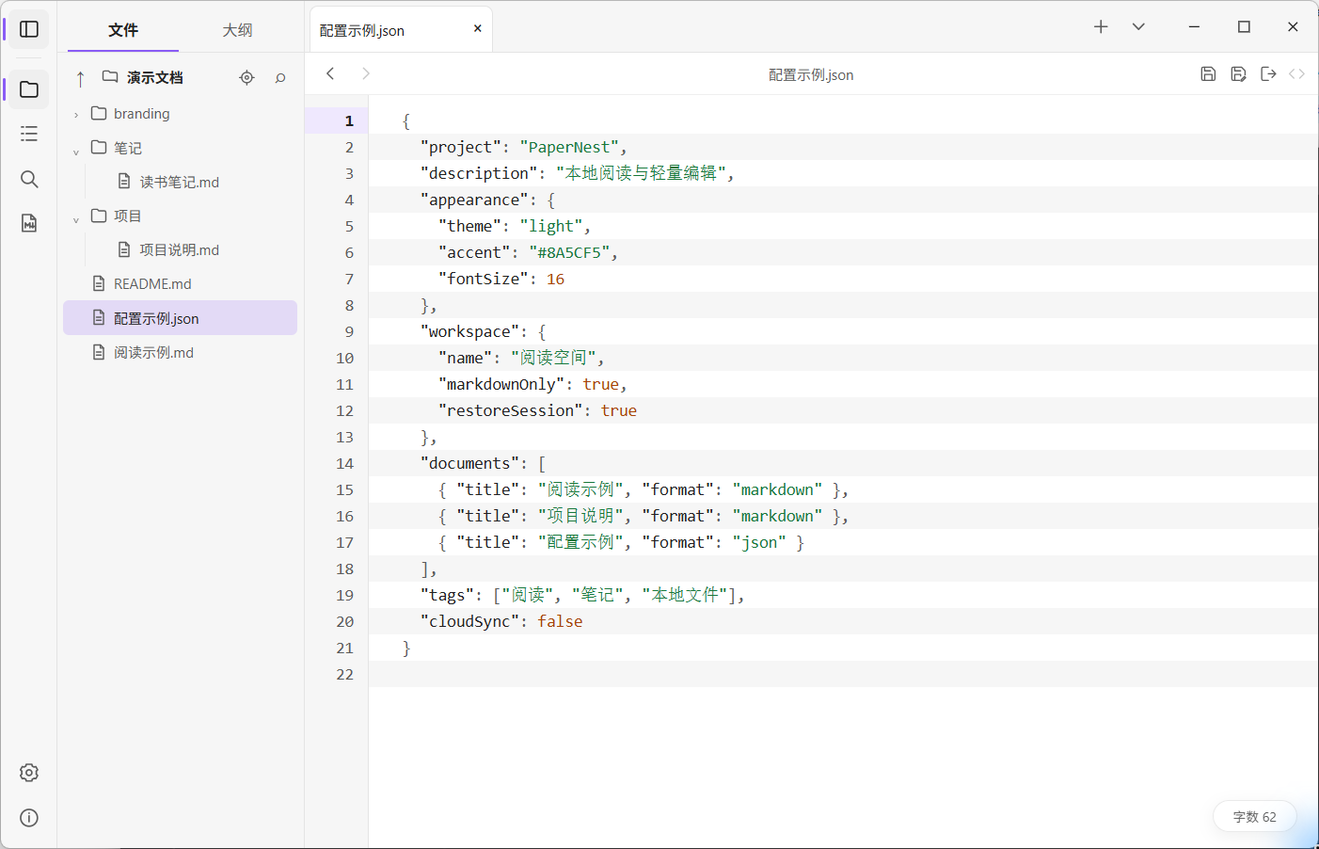
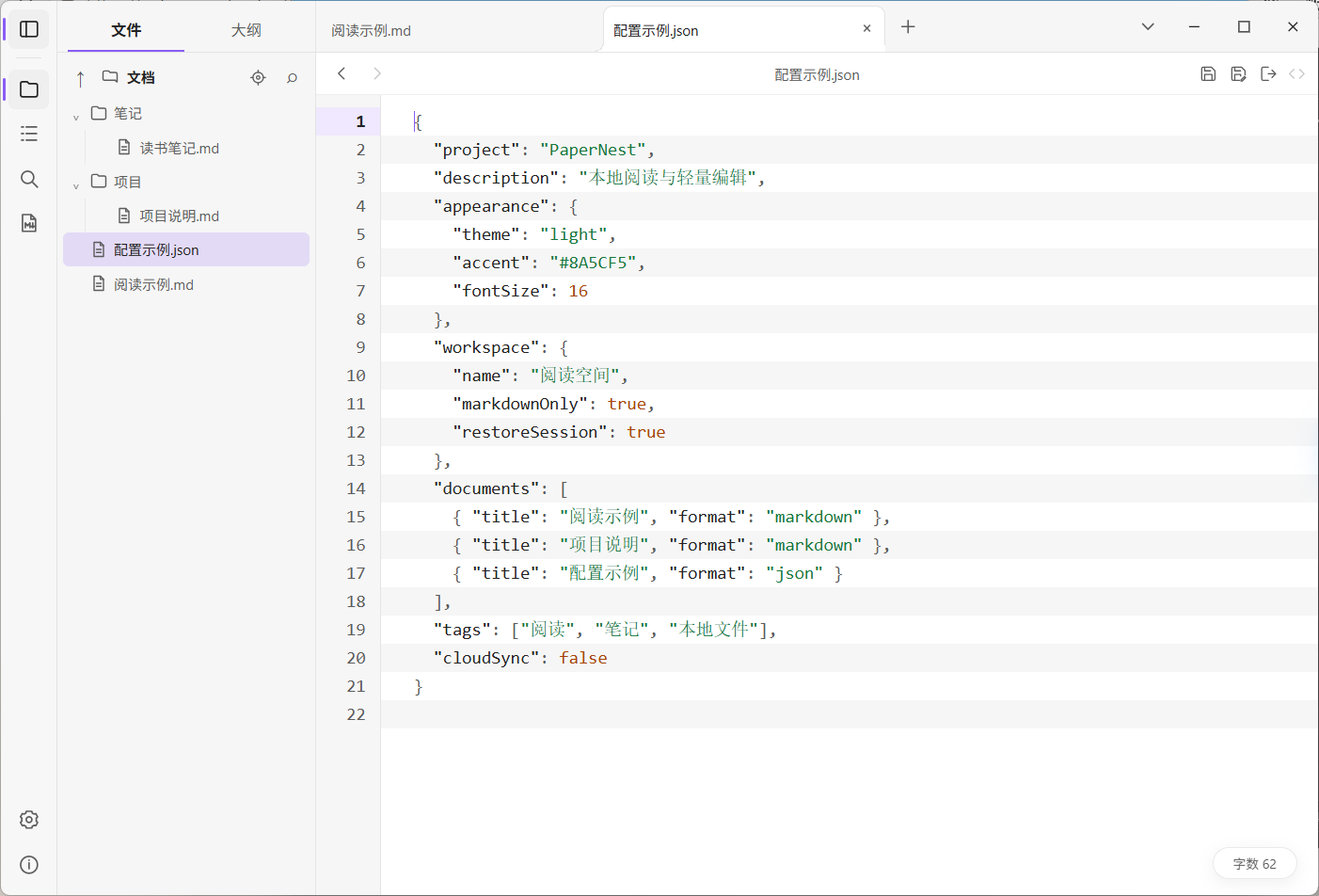
Refresh README copy and v0.2.5 screenshots
Rewrite both READMEs around the released v0.2.5 behaviour: platform
download table, updater signature scope, Windows portable settings and
data locations, and session restore wording. Move release-candidate
detail to the development records instead of the user-facing sections.

Recapture six screenshots from the shipped v0.2.5 portable EXE
(3e9fabdd5a267bdafa31ca7398679fba233e48f4264f2f50f57da868688cc286) at
1402x952 and replace the v0.1.5 set. The tab menu shot replaces the
collapsible-section shot, which no longer exists.

Sync the project site with the same three-platform story in the hero,
gallery, and download sections.

diff --git a/docs/index.html b/docs/index.html
@@ -32,14 +32,14 @@
 <main id="main">
   <section class="hero" id="top">
     <div class="container hero-inner">
-      <p class="eyebrow">开源 · 本地优先 · Windows x64</p>
+      <p class="eyebrow">开源 · 本地优先 · 桌面三平台</p>
       <h1>打开文件，<br class="br-sm">就能开始读写。</h1>
       <p class="lead">纸间是一个面向本地文件的轻量桌面应用。Markdown 以所见即所得方式呈现，代码、配置、日志与图片也能直接查看。不需要导入，不需要账号，文件始终留在你的磁盘上。</p>
       <div class="actions">
-        <a class="btn btn-primary" href="https://github.com/baihejiangnan/PaperNest/releases/latest" rel="noopener noreferrer">下载 Windows 版</a>
+        <a class="btn btn-primary" href="https://github.com/baihejiangnan/PaperNest/releases/latest" rel="noopener noreferrer">下载 Windows / Linux 版</a>
         <a class="btn btn-ghost" href="https://github.com/baihejiangnan/PaperNest" rel="noopener noreferrer">查看源码</a>
       </div>
-      <p class="fine">便携 EXE 或 MSI 安装包 · 需要 WebView2 Runtime · MIT 许可</p>
+      <p class="fine">Windows 便携 EXE 或 MSI · Linux AppImage / deb / rpm · macOS 测试版 · MIT 许可</p>
     </div>
 
     <div class="container">
@@ -47,9 +47,9 @@
         <div class="shot-frame">
           <picture id="view-render">
             <source media="(prefers-color-scheme: dark)" srcset="assets/screenshots/main-dark.png">
-            <img src="assets/screenshots/main-light.png" width="1402" height="902" decoding="async" fetchpriority="high" alt="纸间 PaperNest 主界面：左侧是文件树，右侧是渲染后的 Markdown 文档，包含任务列表、表格、代码块和公式">
+            <img src="assets/screenshots/main-light.png" width="1402" height="952" decoding="async" fetchpriority="high" alt="纸间 PaperNest 主界面：左侧是文件树，右侧是渲染后的 Markdown 文档，包含任务列表、表格、代码块和公式">
           </picture>
-          <img id="view-source" src="assets/screenshots/markdown-source.png" width="1402" height="902" decoding="async" alt="纸间 PaperNest 的 Markdown 源码视图：带行号和语法高亮的原始文本" hidden>
+          <img id="view-source" src="assets/screenshots/markdown-source.png" width="1402" height="952" decoding="async" alt="纸间 PaperNest 的 Markdown 源码视图：带行号和语法高亮的原始文本" hidden>
         </div>
         <div class="view-toggle" role="group" aria-label="切换截图视图" hidden>
           <button type="button" data-view="render" aria-pressed="true">渲染</button>
@@ -96,19 +96,19 @@
   <section class="section section-alt" id="gallery">
     <div class="container">
       <h2>界面一览</h2>
-      <p class="section-lead">以下均为实际运行截图。点击图片可查看原始尺寸。</p>
+      <p class="section-lead">以下均为 v0.2.5 的 Windows 实际运行截图。点击图片可查看原始尺寸。</p>
       <div class="gallery">
         <figure>
-          <a href="assets/screenshots/code-json.png"><img src="assets/screenshots/code-json.png" width="1402" height="902" loading="lazy" decoding="async" alt="纸间在 Code 模式中打开 JSON 配置文件，显示行号与语法高亮"></a>
+          <a href="assets/screenshots/code-json.png"><img src="assets/screenshots/code-json.png" width="1402" height="952" loading="lazy" decoding="async" alt="纸间在 Code 模式中打开 JSON 配置文件，显示行号与语法高亮"></a>
           <figcaption>Code 模式：JSON 配置直接打开，带行号与语法高亮。</figcaption>
         </figure>
         <figure>
-          <a href="assets/screenshots/settings-editor.png"><img src="assets/screenshots/settings-editor.png" width="1402" height="902" loading="lazy" decoding="async" alt="纸间设置面板的编辑器分类，可调整阅读字体与字号"></a>
+          <a href="assets/screenshots/settings-editor.png"><img src="assets/screenshots/settings-editor.png" width="1402" height="952" loading="lazy" decoding="async" alt="纸间设置面板的编辑器分类，可调整阅读字体与字号"></a>
           <figcaption>设置：按分类调整字体、字号与编辑习惯，支持搜索。</figcaption>
         </figure>
         <figure>
-          <a href="assets/screenshots/readme-details.png"><img src="assets/screenshots/readme-details.png" width="1402" height="902" loading="lazy" decoding="async" alt="纸间打开项目 README，展开其中的文件树折叠区块，其余区块保持收起"></a>
-          <figcaption>折叠区块：支持 GitHub 风格的 &lt;details&gt;，可展开与收起。</figcaption>
+          <a href="assets/screenshots/tabs-menu.png"><img src="assets/screenshots/tabs-menu.png" width="1402" height="952" loading="lazy" decoding="async" alt="纸间标签页右键菜单，可关闭其他标签页、锁定或移动至新窗口"></a>
+          <figcaption>标签页菜单：批量关闭、锁定，或移动至独立窗口。</figcaption>
         </figure>
       </div>
     </div>
@@ -163,20 +163,25 @@
   <section class="section" id="download">
     <div class="container">
       <h2>下载</h2>
-      <p class="section-lead">当前正式发行 Windows x64 版本。两种包功能相同，按使用方式选择。</p>
-      <div class="grid grid-2">
+      <p class="section-lead">当前正式版为 v0.2.5。Windows 与 Linux 包在正式版 Releases，macOS 单独提供未公证测试版。</p>
+      <div class="grid">
         <a class="dl" href="https://github.com/baihejiangnan/PaperNest/releases/latest" rel="noopener noreferrer">
-          <span class="dl-kind">便携版 · EXE</span>
-          <span class="dl-desc">无需安装，解压即用，适合放在 U 盘或随项目携带。</span>
+          <span class="dl-kind">Windows x64</span>
+          <span class="dl-desc">便携 EXE 直接运行，或安装 MSI 以配置文件关联；支持应用内检查、下载和安装更新。</span>
           <span class="dl-go">前往 Releases →</span>
         </a>
         <a class="dl" href="https://github.com/baihejiangnan/PaperNest/releases/latest" rel="noopener noreferrer">
-          <span class="dl-kind">安装版 · MSI</span>
-          <span class="dl-desc">安装到系统，支持文件关联与右键“新建 MD 文件”。</span>
+          <span class="dl-kind">Linux x86_64</span>
+          <span class="dl-desc">AppImage、deb 或 rpm，按发行版选择；原生构建、测试与窗口启动检查通过。</span>
           <span class="dl-go">前往 Releases →</span>
+        </a>
+        <a class="dl" href="https://github.com/baihejiangnan/PaperNest/releases/tag/macos-v0.2.5-preview.1" rel="noopener noreferrer">
+          <span class="dl-kind">macOS Universal</span>
+          <span class="dl-desc">Intel 与 Apple Silicon 共用同一 DMG；临时签名，未经 Apple 公证的测试版。</span>
+          <span class="dl-go">查看测试版 →</span>
         </a>
       </div>
-      <p class="fine">运行需要 WebView2 Runtime（Windows 10/11 通常已内置）。Linux x86_64 的 AppImage、deb、rpm 也已在 Releases 提供，macOS Universal <a href="https://github.com/baihejiangnan/PaperNest/releases/tag/macos-v0.2.5-preview.1" rel="noopener noreferrer">未公证测试版</a>已提供，实机完整验收仍待进行。也可以按 README 从源码构建。</p>
+      <p class="fine">Windows 需要 WebView2 Runtime；Windows 包附带应用更新签名，各平台均提供 SHA-256 清单。Linux 与 macOS 暂不支持应用内自动安装更新，完整实机验收仍待进行。也可以按 README 从源码构建。</p>
     </div>
   </section>
 </main>

diff --git a/README.md b/README.md
@@ -11,13 +11,13 @@
 [![许可证](https://img.shields.io/badge/license-MIT-8a5cf5)](LICENSE.md)
 [![平台](https://img.shields.io/badge/platform-Windows%20x64%20%7C%20Linux%20x64-555)](https://github.com/baihejiangnan/PaperNest/releases/latest)
 
-[下载](https://github.com/baihejiangnan/PaperNest/releases/latest) · [项目介绍页](https://baihejiangnan.github.io/PaperNest/) · [English](README.en.md)
+[Windows / Linux 下载](https://github.com/baihejiangnan/PaperNest/releases/latest) · [macOS 测试版](https://github.com/baihejiangnan/PaperNest/releases/tag/macos-v0.2.5-preview.1) · [项目介绍页](https://baihejiangnan.github.io/PaperNest/) · [English](README.en.md)
 
 </div>
 
 ![纸间 PaperNest 浅色主界面：展开的文件树与包含任务列表、表格、代码和公式的 Markdown 文档](docs/assets/screenshots/main-light.png)
 
-*Windows 桌面实际运行界面，使用专门准备的演示文档。*
+*PaperNest v0.2.5 的 Windows 实际运行截图，使用演示文档；下方可查看深色主题、源码、JSON、设置和标签页菜单。*
 
 ---
 
@@ -46,7 +46,7 @@
 
 ## 界面预览
 
-浅色主界面见上图。以下截图展示同一份文档的不同视图，以及配置文件、设置和折叠区块。
+浅色主界面见上图。以下截图均来自 v0.2.5，使用同一组演示文件。
 
 <details>
 <summary><b>查看更多界面截图</b></summary>
@@ -75,33 +75,30 @@ JSON 配置文件直接进入 Code 模式，无须转换为 Markdown。
 
 ![PaperNest 设置面板的编辑器分类](docs/assets/screenshots/settings-editor.png)
 
-### README 折叠区块
+### 标签页菜单
 
-用 PaperNest 打开项目 README，展开“文件树”说明，其余区块保持收起。
+右键标签页可批量关闭、锁定，或移动至独立窗口。锁定可防止文件树预览替换该标签。
 
-![PaperNest 打开 README 并展开文件树折叠区块](docs/assets/screenshots/readme-details.png)
+![PaperNest 标签页菜单：关闭、锁定和移动至新窗口](docs/assets/screenshots/tabs-menu.png)
 
 </details>
 
 ## 下载与安装
 
-当前正式发行 **Windows x64 与 Linux x86_64** 版本，在 [Releases](https://github.com/baihejiangnan/PaperNest/releases/latest) 下载：
+当前正式版为 **v0.2.5**。Windows 与 Linux 包在[正式版 Releases](https://github.com/baihejiangnan/PaperNest/releases/latest)，macOS 单独提供[未公证测试版](https://github.com/baihejiangnan/PaperNest/releases/tag/macos-v0.2.5-preview.1)。
 
-| 包类型 | 文件 | 适合 |
+| 平台 | 下载包 | 选择方式 |
 | --- | --- | --- |
-| 便携版 | `PaperNest-X.Y.Z.exe` | 免安装，放在任意目录或 U 盘中使用；数据可保存在程序旁的 `data/` 目录。 |
-| 安装版 | `PaperNest_X.Y.Z_x64.msi` | 安装到系统，配合文件关联和右键“新建 MD 文件”使用。 |
-| Linux AppImage | `PaperNest-X.Y.Z-linux-x86_64.AppImage` | Linux x86_64 可执行应用包。 |
-| Linux deb / rpm | `PaperNest-X.Y.Z-linux-x86_64.deb` / `.rpm` | 使用对应的软件包管理器安装；兼容性范围见发行说明。 |
+| Windows x64 | [便携 EXE](https://github.com/baihejiangnan/PaperNest/releases/download/v0.2.5/PaperNest-0.2.5.exe) / [安装 MSI](https://github.com/baihejiangnan/PaperNest/releases/download/v0.2.5/PaperNest_0.2.5_x64.msi) | EXE 直接运行；MSI 适合安装到系统并配置文件关联。 |
+| Linux x86_64 | [AppImage](https://github.com/baihejiangnan/PaperNest/releases/download/v0.2.5/PaperNest-0.2.5-linux-x86_64.AppImage) / [deb](https://github.com/baihejiangnan/PaperNest/releases/download/v0.2.5/PaperNest-0.2.5-linux-x86_64.deb) / [rpm](https://github.com/baihejiangnan/PaperNest/releases/download/v0.2.5/PaperNest-0.2.5-linux-x86_64.rpm) | 按发行版选择应用包或软件包；兼容性说明见 Release。 |
+| macOS Intel / Apple Silicon | [Universal DMG 测试版](https://github.com/baihejiangnan/PaperNest/releases/tag/macos-v0.2.5-preview.1) | 同一包包含双架构；使用临时签名，**未经过 Apple 公证**。 |
 
-- Windows 运行需要 **WebView2 Runtime**（Windows 10/11 通常已内置）。
-- 每个发行版附带 `.sig` 更新签名和 `SHA256SUMS.txt`，可用来核对文件。当前没有 Windows Authenticode 证书签名，首次运行时系统可能提示来源未知。
-- 自动检查更新默认关闭，可在设置中开启；只获取本项目发布并经签名验证的版本，下载和安装前仍需确认。
-- 检查更新直接读取 Release 的公开元数据，无需 GitHub 登录或 Token；连接失败时会显示具体错误，可再次检查。
-- 应用内更新会先保存阅读会话，安装完成后自动启动并恢复文件、当前标签与阅读位置；便携版在旧进程退出后打开新 EXE。更新重启也会恢复会话，不受日常“恢复上次会话”开关影响。安装取消或失败时尝试返回原程序。此修复自 v0.2.2 起发布。
-- Linux 首发包通过 Ubuntu 22.04 原生构建、54 项 Rust 测试和桌面窗口启动检查；实体桌面安装与完整功能验收仍待进行。Linux 暂不支持应用内自动安装更新。macOS Universal [未公证测试版](https://github.com/baihejiangnan/PaperNest/releases/tag/macos-v0.2.5-preview.1) 已提供，实机完整验收待进行。
+- Windows 需要 **WebView2 Runtime**。当前没有 Windows Authenticode 证书签名，首次运行时系统可能提示来源未知。
+- 各平台均附带 SHA-256 清单；Windows EXE 与 MSI 另有应用更新签名。更新签名与系统认可的发布者证书是不同的验证方式。
+- Windows 可在“设置 → 更新”检查、下载和安装更新，无需 GitHub 登录或 Token。自动检查默认关闭，下载和安装均需确认；安装前保存阅读会话，更新后恢复。
+- Linux 与 macOS 暂不支持应用内自动安装更新，请从 Releases 手动下载。两者已通过原生构建与测试，Linux 另通过窗口启动检查，macOS 另核验了最终 DMG 的双架构和签名完整性；完整实机功能验收仍待完成。详细范围见[开发记录](docs/development.md)及 [TODO](TODO.md)。
 
-> 本项目基于 [MDmeow](https://github.com/zakee039/MDmeow) 持续开发；原项目的安装包不包含这里的新增功能。
+> PaperNest 基于 [MDmeow](https://github.com/zakee039/MDmeow) 持续开发；请下载本仓库的发行包以使用这里的功能。
 
 ## 快速上手
 
@@ -125,11 +122,11 @@ JSON 配置文件直接进入 Code 模式，无须转换为 Markdown。
 <details>
 <summary><b>标签页与窗口</b></summary>
 
-- 标题栏加号打开新标签页，可从空白页创建或打开文件；新增标签平滑展开，加号跟随标签末尾，空间不足时标签同步缩窄。箭头固定在窗口按钮旁，可切换、堆叠、收藏及关闭标签页。
-- 右键标签可关闭当前、其他、右侧或全部标签，锁定／取消锁定，以及移动至新窗口；右键不会切换当前文档。锁定防止文件树预览替换该页，当前运行期间有效，仍可手动关闭。移动前先保存，取消保存或创建窗口失败时保留源标签。上述标签改进自 v0.2.5 起提供。
+- 标题栏加号打开新标签页，可创建或打开文件；标签过多时自动缩窄。右侧箭头可切换、堆叠、收藏及关闭标签页。
+- 右键标签可关闭当前、其他、右侧或全部标签，锁定／取消锁定，以及移动至新窗口；右键不会切换当前文档。锁定防止文件树预览替换该页，当前运行期间有效，仍可手动关闭。移动前先保存，取消保存或创建窗口失败时保留源标签。
 - 收藏会保存有文件路径的标签页列表，之后可从箭头菜单恢复；未保存的新文件不会进入收藏。
-- “常规 → 启动时恢复阅读会话”默认开启：没有指定文件时，从快捷方式或 EXE 启动会恢复文件、活动标签、阅读位置、源码视图和项目根目录。关闭后只显示新建标签页，不加载旧文件树；指定文件启动时只打开指定文件。安装版和便携版在同一用户下共享最近会话与此开关，旧版 EXE 不支持新的共享记录。该初始化修复和共享功能随 v0.2.4 发行，v0.2.3 及更早版本不包含。
-- v0.2.5 修复：指定文件读取失败时保留旧会话；之后成功打开其他文件或另存为即可恢复记录新会话。安装器提升权限启动阅读器时，改由桌面 Explorer 以普通权限启动，保证后续双击文件能转交给已有窗口。修复和验收范围见[开发记录](docs/development.md#会话保存门闩与安装后启动权限2026-10-11本地修复)。
+- “常规 → 启动时恢复阅读会话”默认开启：直接启动时恢复文件、活动标签、阅读位置、源码视图和项目根目录。关闭后显示新建标签页；指定文件启动时打开指定文件。Windows 安装版和便携版在同一用户下共享最近会话与此开关。
+- 指定文件读取失败时保留旧会话；成功打开其他文件或另存为后继续记录。Windows 安装后通过桌面 Explorer 以普通权限启动，便于后续双击文件转交已有窗口。
 - 右键打开独立标签页时立即显示标签，读取较慢时显示“正在打开文件…”；加载期间可以切换或关闭标签页。
 - 关闭标签页、替换预览页、退出或安装更新时，如有未保存的修改，可选择“保存”“不保存”或“取消”；多个文档时为“全部保存”。保存失败或取消另存为时不会关闭任何内容。
 - “在新窗口中打开”在同一应用进程中创建只显示单个文档的窗口，不附带文件树、大纲或标签栏。
@@ -183,11 +180,9 @@ macOS 使用 `Cmd` 代替 `Ctrl`。应用级快捷键可在设置中重新绑定
 <img src="./assets/diagram.png" alt="示意图" style="zoom:50%;" data-align="center">
 ```
 
-**设置保存在本地。** 偏好和本地会话保存在 `settings.toml`，修改后即时保存。便携版可使用程序旁的 `data/` 目录，安装版使用系统用户数据目录。上述共享恢复另在用户配置目录 `PaperNest/reading-session.toml` 保存会话和恢复开关；其他外观偏好仍各自保留。滚动位置防抖保存，正常退出立即保存；直接结束进程只能恢复最近已写入的位置。手动编辑 settings.toml 导致无法解析时，启动会提示错误，原文件另存为 `settings.invalid-<时间>.toml`，并以默认设置运行。
+**设置保存在本地。** 偏好和本地会话保存在 `settings.toml`，修改后即时保存。Windows 便携版将 `settings.toml` 放在 EXE 旁，`data/` 保存 WebView2 数据与更新缓存；目录不可写时回退到用户配置目录。安装版使用系统用户配置目录。上述共享恢复另在用户配置目录 `PaperNest/reading-session.toml` 保存会话和恢复开关；其他外观偏好仍各自保留。滚动位置防抖保存，正常退出立即保存；直接结束进程只能恢复最近已写入的位置。手动编辑 settings.toml 导致无法解析时，启动会提示错误，原文件另存为 `settings.invalid-<时间>.toml`，并以默认设置运行。
 
-本地源码中的设置页已统一为分组背景、分割线与双态开关；非专用区域屏蔽浏览器原生右键菜单。正文、源码和代码块右键菜单默认隐藏快捷键，可在“常规 → 行为 → 内容区右键菜单显示快捷键”开启（`context_menu_shortcuts = false` 为默认值）。开启会增加菜单宽度，关闭不影响快捷键使用。上述界面改进自 v0.2.5 起提供。
-
-“行为”顶部四项（仅显示 Markdown、删除前询问、始终显示标签栏、启动时恢复阅读会话）默认开启；已有配置中的手动选择保留。
+**按习惯调整。** 设置按分类分组，修改即时保存。正文、源码和代码块的右键菜单默认隐藏快捷键文字；可在“常规 → 行为 → 内容区右键菜单显示快捷键”开启。
 
 **删除可以撤回。** 文件和文件夹删除会移入系统回收站；移入失败时只提示错误，不会改为永久删除。
 
@@ -206,7 +201,7 @@ pnpm tauri build      # 本机打包
 
 `pnpm release:windows` 生成 Windows x64 便携 EXE、MSI、更新签名、`latest.json` 和 `SHA256SUMS.txt`。调试方法和回归清单见 [开发说明](docs/development.md)，正式发行流程见 [推送与发行规则](docs/release-rules.md)。
 
-macOS／Linux 候选包准备：在对应系统运行 `pnpm release:macos`（Universal DMG）或 `pnpm release:linux`（本机架构的 AppImage、deb、rpm），输出至 `release-unix/` 的独立平台目录，附带构建信息和 SHA-256 清单。也已准备仅手动触发的 [候选包工作流](.github/workflows/unix-candidates.yml)。本地源码已补齐 Finder 打开文件事件和启动期间的文件请求保留，仍待目标系统验收。macOS 当前使用 ad-hoc 签名，未公证；Linux 0.2.5 已通过原生构建、测试与窗口启动检查并公开发行；macOS Universal 未公证测试版已通过最终 DMG 内双架构与签名完整性核验并公开。两平台完整实机验收及应用内自动安装更新仍未完成。依赖、运行步骤和发行前检查见[跨平台候选包准备](docs/development.md#macoslinux-候选包准备)。
+在对应系统运行 `pnpm release:macos`（Universal DMG）或 `pnpm release:linux`（本机架构的 AppImage、deb、rpm），产物写入 `release-unix/`，附带构建信息与 SHA-256 清单。也可使用手动触发的[跨平台构建工作流](.github/workflows/unix-candidates.yml)。依赖、签名和验收步骤见[跨平台开发说明](docs/development.md#macoslinux-候选包准备)。
 
 ## 项目结构与文档
 
@@ -222,8 +217,6 @@ macOS／Linux 候选包准备：在对应系统运行 `pnpm release:macos`（Uni
 | [TODO.md](TODO.md) | 待验证和待完成事项 |
 
 技术栈：Tauri v2 · Rust · TypeScript · Milkdown/Crepe · CodeMirror · KaTeX
-
-> 多窗口和资源管理器定位已在 Windows 开发版完成回归；Windows 候选发行包的剩余检查见 [TODO](TODO.md)。Linux 原生构建、测试与窗口启动检查、macOS 原生构建、测试及双架构／签名核验均通过；完整实机确认仍待执行。
 
 ## 致谢与许可
 

diff --git a/README.en.md b/README.en.md
@@ -11,13 +11,13 @@ Open Markdown to read or edit it, and quickly inspect code, configuration, logs,
 [![License](https://img.shields.io/badge/license-MIT-8a5cf5)](LICENSE.md)
 [![Platform](https://img.shields.io/badge/platform-Windows%20x64%20%7C%20Linux%20x64-555)](https://github.com/baihejiangnan/PaperNest/releases/latest)
 
-[Download](https://github.com/baihejiangnan/PaperNest/releases/latest) · [Website](https://baihejiangnan.github.io/PaperNest/) · [简体中文](README.md)
+[Windows / Linux downloads](https://github.com/baihejiangnan/PaperNest/releases/latest) · [macOS preview](https://github.com/baihejiangnan/PaperNest/releases/tag/macos-v0.2.5-preview.1) · [Website](https://baihejiangnan.github.io/PaperNest/) · [简体中文](README.md)
 
 </div>
 
 ![PaperNest in light mode, with an expanded file tree and a Markdown document containing tasks, a table, code, and math](docs/assets/screenshots/main-light.png)
 
-*Actual Windows desktop screenshots using prepared demo documents. The interface shown is in Chinese.*
+*Actual PaperNest v0.2.5 screenshots on Windows, using demo documents and a Chinese interface. More views appear below.*
 
 ---
 
@@ -46,7 +46,7 @@ Open Markdown to read or edit it, and quickly inspect code, configuration, logs,
 
 ## Screenshots
 
-The light-mode workspace is shown above. These screenshots show alternate views of the same document, a configuration file, settings, and collapsible sections.
+The light-mode workspace is shown above. All screenshots below use v0.2.5 and the same set of demo files.
 
 <details>
 <summary><b>See more screenshots</b></summary>
@@ -75,31 +75,30 @@ Adjust reading fonts, text size, and editing preferences, or preview the current
 
 ![PaperNest settings panel showing the editor category](docs/assets/screenshots/settings-editor.png)
 
-### Collapsible README sections
+### Tab menu
 
-The project's README opened in PaperNest, with the file-tree section expanded and the other sections collapsed.
+Right-click a tab to close groups of tabs, lock it against preview replacement, or move it to a separate window.
 
-![PaperNest displaying an expanded collapsible section in the project README](docs/assets/screenshots/readme-details.png)
+![PaperNest tab menu with close, lock, and move-to-window actions](docs/assets/screenshots/tabs-menu.png)
 
 </details>
 
 ## Download and install
 
-The current release targets **Windows x64 and Linux x86_64**. Download it from [Releases](https://github.com/baihejiangnan/PaperNest/releases/latest):
+The current stable release is **v0.2.5**. Windows and Linux packages are in [stable Releases](https://github.com/baihejiangnan/PaperNest/releases/latest); macOS has a separate [unnotarized preview](https://github.com/baihejiangnan/PaperNest/releases/tag/macos-v0.2.5-preview.1).
 
-| Package | File | Best for |
+| Platform | Packages | Choose a package |
 | --- | --- | --- |
-| Portable | `PaperNest-X.Y.Z.exe` | No installation. Run from any folder or USB drive; data can live in a `data/` folder next to the executable. |
-| Installer | `PaperNest_X.Y.Z_x64.msi` | System install with file associations and the Explorer “New → MD File” entry. |
-| Linux AppImage | `PaperNest-X.Y.Z-linux-x86_64.AppImage` | Executable application bundle for Linux x86_64. |
-| Linux deb / rpm | `PaperNest-X.Y.Z-linux-x86_64.deb` / `.rpm` | Install through the corresponding package manager; see release notes for compatibility. |
+| Windows x64 | [Portable EXE](https://github.com/baihejiangnan/PaperNest/releases/download/v0.2.5/PaperNest-0.2.5.exe) / [MSI installer](https://github.com/baihejiangnan/PaperNest/releases/download/v0.2.5/PaperNest_0.2.5_x64.msi) | Run the EXE directly, or install the MSI and configure file associations. |
+| Linux x86_64 | [AppImage](https://github.com/baihejiangnan/PaperNest/releases/download/v0.2.5/PaperNest-0.2.5-linux-x86_64.AppImage) / [deb](https://github.com/baihejiangnan/PaperNest/releases/download/v0.2.5/PaperNest-0.2.5-linux-x86_64.deb) / [rpm](https://github.com/baihejiangnan/PaperNest/releases/download/v0.2.5/PaperNest-0.2.5-linux-x86_64.rpm) | Choose for your distribution; see the release notes for compatibility. |
+| macOS Intel / Apple Silicon | [Universal DMG preview](https://github.com/baihejiangnan/PaperNest/releases/tag/macos-v0.2.5-preview.1) | One package for both architectures; ad-hoc signed and **not notarized by Apple**. |
 
-- Windows requires **WebView2 Runtime** (usually preinstalled on Windows 10/11).
-- Each release includes `.sig` updater signatures and `SHA256SUMS.txt` for verification. Windows Authenticode certificate signing is not configured, so Windows may warn about an unknown publisher on first run.
-- Automatic update checks are off by default. When enabled, the app only accepts this project's signed releases and asks before downloading or installing.
-- Linux packages passed native Ubuntu 22.04 builds, 54 Rust tests and a desktop window startup check. Physical-device installation and full feature checks remain pending. Linux in-app update installation is not supported. A Universal [unnotarized macOS preview](https://github.com/baihejiangnan/PaperNest/releases/tag/macos-v0.2.5-preview.1) is available; full on-device checks remain pending.
+- Windows requires **WebView2 Runtime**. Windows Authenticode certificate signing is not configured, so Windows may report an unknown publisher on first run.
+- All platforms include SHA-256 manifests. Windows EXE and MSI packages also include updater signatures; these are separate from an OS-trusted publisher certificate.
+- On Windows, use Settings → Updates to check, download, and install without a GitHub login or token. Automatic checks are off by default; downloading and installing require confirmation. The app saves the reading session before updating and restores it afterward.
+- Linux and macOS do not support in-app update installation; download new releases manually. Both passed native builds and tests. Linux also passed a window startup check; macOS passed architecture and signature checks inside the final DMG. Full on-device feature checks remain pending. See [development records](docs/development.md) and [TODO](TODO.md) for the verification scope.
 
-> PaperNest is developed on top of [MDmeow](https://github.com/zakee039/MDmeow). Upstream installers do not include this repository's additions.
+> PaperNest builds on [MDmeow](https://github.com/zakee039/MDmeow). Download this repository's packages to use the features described here.
 
 ## Getting started
 
@@ -123,8 +122,9 @@ The current release targets **Windows x64 and Linux x86_64**. Download it from [
 <details>
 <summary><b>Tabs and windows</b></summary>
 
-- The plus button opens a new tab where you can create or open a file. New tabs expand smoothly, with the plus button following the last tab and existing tabs shrinking together when space is limited. The arrow stays beside the window controls and switches, stacks, favorites, and closes tabs.
-- Right-click a tab to close it, other tabs, tabs to its right, or all tabs; lock/unlock it; or move it to a new window. Right-click keeps the current document active. Locks prevent preview replacement for the current run and still allow explicit closure. Moving saves first and retains the source if saving is cancelled or window creation fails. These tab improvements are included in v0.2.5.
+- The plus button opens a new tab for creating or opening a file. Tabs shrink when space is limited. The arrow beside the window controls switches, stacks, favorites, and closes tabs.
+- Right-click a tab to close it, other tabs, tabs to its right, or all tabs; lock/unlock it; or move it to a new window. Right-click keeps the current document active. Locks prevent preview replacement for the current run and still allow explicit closure. Moving saves first and retains the source if saving is cancelled or window creation fails.
+- Startup session restore is on by default. Launching without a file restores documents, the active tab, reading position, source view, and workspace root. Turn it off to start with a new tab; launching with a file opens that file. Windows installed and portable copies share the latest session and this preference for the same user. A failed file-open request keeps the previous session until another file opens or Save As succeeds.
 - Favorites save the list of tabs that have file paths and can be restored from the arrow menu. Unsaved new files are not included.
 - “Open in new tab” shows the tab immediately with “Opening file…” while reading. You can switch or close it during loading.
 - Closing a tab, replacing a preview tab, quitting, or installing an update with unsaved edits offers Save, Don't save, or Cancel (Save all for several documents). If saving fails or Save As is cancelled, nothing is closed.
@@ -179,15 +179,13 @@ macOS uses `Cmd` instead of `Ctrl`. App shortcuts can be rebound in Settings.
 <img src="./assets/diagram.png" alt="Diagram" style="zoom:50%;" data-align="center">
 ```
 
-**Settings stay local.** Preferences and session state are saved to `settings.toml` as they change. Portable builds can use a `data/` folder next to the executable; installed builds use the system user-data directory. If a hand edit makes the file unreadable, the app reports it at startup, keeps the original as `settings.invalid-<time>.toml`, and runs with defaults.
+**Settings stay local.** Preferences and session state are saved to `settings.toml` as they change. Windows portable builds keep `settings.toml` beside the EXE and WebView2 data and update caches in `data/`; an unwritable folder falls back to the user config directory. Installed builds use the system user config directory. Windows copies share session restore through `PaperNest/reading-session.toml` in the user config directory; other preferences stay separate. If a hand edit makes the file unreadable, the app reports it at startup, keeps the original as `settings.invalid-<time>.toml`, and runs with defaults.
 
 **Deletes can be undone.** Files and folders go to the system recycle bin. If recycling fails, the app reports the error and never falls back to permanent deletion.
 
 **No upload, no sync.** Documents are never synced to a cloud service, so back up your files and settings yourself when moving computers.
 
-Local source now uses consistent grouped settings, dividers, and two-state switches, and suppresses browser-native context menus outside dedicated app menus. Content menus in rich text, source view, and code blocks hide shortcut hints by default. Enable them under General → Behavior (`context_menu_shortcuts = false` by default); showing hints makes menus wider, while hiding them leaves keyboard bindings unchanged. These interface improvements are included in v0.2.5.
-
-The first four Behavior preferences—Markdown-only filtering, deletion confirmation, always showing the tab bar, and startup session restore—default to enabled. Existing saved choices are preserved.
+**Adjust your preferences.** Settings are grouped by category and saved immediately. Rich-text, source, and code-block context menus hide shortcut hints by default; enable them under General → Behavior → Show shortcut hints in content menus.
 
 ## Build from source
 
@@ -200,11 +198,9 @@ pnpm build            # type-check and build the frontend
 pnpm tauri build      # package locally
 ```
 
-Update checks read public Release metadata without a GitHub login or token. Connection failures remain visible so you can retry; downloaded packages still require a valid updater signature.
-
 `pnpm release:windows` produces the Windows x64 portable EXE, MSI, updater signatures, `latest.json`, and `SHA256SUMS.txt`. See [development notes](docs/development.md) for debugging and regression checks, and [release rules](docs/release-rules.md) for the publishing process.
 
-macOS/Linux candidates: run `pnpm release:macos` on macOS for a Universal DMG, or `pnpm release:linux` on Linux for native-architecture AppImage, deb, and rpm packages. Outputs go to separate platform folders under `release-unix/`, with build provenance and SHA-256 checksums. A manual-only [candidate workflow](.github/workflows/unix-candidates.yml) is also prepared. Local source now handles Finder file-open events and retains requests during startup; on-device verification remains pending. macOS candidates use ad-hoc signing without notarization. Linux 0.2.5 is publicly available after native builds, tests and a window startup check; the macOS Universal preview is public after architecture and signature checks inside the final DMG. Full on-device checks and in-app update installation remain pending for both platforms. See [cross-platform preparation](docs/development.md#macoslinux-候选包准备) for prerequisites and checks.
+On the corresponding OS, run `pnpm release:macos` for a Universal DMG or `pnpm release:linux` for native-architecture AppImage, deb, and rpm packages. Outputs go to `release-unix/` with build provenance and SHA-256 manifests. A manual [cross-platform build workflow](.github/workflows/unix-candidates.yml) is also available. See [cross-platform development notes](docs/development.md#macoslinux-候选包准备) for dependencies, signing, and verification.
 
 ## Project map and docs
 
@@ -220,8 +216,6 @@ macOS/Linux candidates: run `pnpm release:macos` on macOS for a Universal DMG, o
 | [TODO.md](TODO.md) | Items awaiting verification |
 
 Stack: Tauri v2 · Rust · TypeScript · Milkdown/Crepe · CodeMirror · KaTeX
-
-> Multiple windows and Explorer location actions passed Windows development-build checks. Remaining Windows release-candidate checks are in [TODO](TODO.md). Linux native builds, tests and a window startup check passed. Mac native builds, tests, dual-architecture and signature verification also passed. Full on-device checks remain pending.
 
 ## Acknowledgments and license
 

diff --git a/docs/assets/screenshots/README.md b/docs/assets/screenshots/README.md
@@ -1,12 +1,21 @@
 # README 截图素材
 
-六张 PNG 截于 2026-10-08，来自 PaperNest v0.1.5 源码的实际 Windows WebView2 桌面窗口，不是网页示意图。仅临时应用标识与运行配置隔离，未修改产品界面代码；图片直接截取可见窗口边界，未拼接或修饰内容。
+六张 PNG 截于 2026-10-12，来自 **PaperNest v0.2.5 Windows 便携版**的实际 WebView2 桌面窗口。程序与正式发行的 EXE 字节一致，使用独立配置、WebView2 数据目录及演示文档，未修改产品界面代码。
 
-- 窗口内容尺寸：1120 × 720 逻辑像素；Windows 缩放 125%，PNG 包含窗口边框。
-- 界面语言：简体中文；阅读字号与源码字号均为 14 px；侧栏宽度 210 px。
-- `main-light.png`、`main-dark.png`、`markdown-source.png` 使用同一份 [阅读示例](demo/阅读示例.md)。
-- `code-json.png` 使用 [配置示例](demo/配置示例.json)，其中键值仅为演示内容，不是 PaperNest 设置文件格式。
-- `settings-editor.png` 展示设置的“编辑器”分类。
-- `readme-details.png` 使用加入本轮截图前的项目 README 副本，展开“文件树”区块。
[1 lines of base64/hex data omitted]
+- 窗口内容尺寸：1120 × 760 逻辑像素；Windows 缩放 125%，PNG 为 1402 × 952，包含可见窗口边框。
+- 界面语言：简体中文；阅读字号 16 px，源码字号 15 px；侧栏宽度 220 px；本轮演示关闭仅显示 Markdown 的筛选，展示 JSON 文件入口。
+- 截图直接捕获可见窗口区域，未拼接、修饰或生成界面；没有个人文档、用户名路径及鼠标标记。
 
-复拍时，将 `demo/` 内容复制到不含个人信息的演示目录，补入项目 README 及其 `branding/icon-master.png`；用独立配置打开文档，展开“笔记”和“项目”目录，依次切换主题、源码视图、JSON 和设置。截图前移开鼠标，确认没有路径提示或其他窗口遮挡。设置面板会显示配置文件位置，因此运行目录也应使用无用户名的演示路径。
+| 文件 | 内容 |
+| --- | --- |
+| `main-light.png` | 浅色主题下的[阅读示例](demo/阅读示例.md)：任务、表格、代码与公式。 |
+| `main-dark.png` | 同一文档与目录的深色主题。 |
+| `markdown-source.png` | 同一文档的 Markdown 源码，显示行号与高亮。 |
+| `code-json.png` | [配置示例](demo/配置示例.json)的 Code 模式；示例键值不是 PaperNest 设置格式。 |
+| `settings-editor.png` | 新版分组设置中的“编辑器”分类与字体预览入口。 |
+| `tabs-menu.png` | 同时打开 Markdown 和 JSON，展示标签页的关闭、锁定及移动窗口菜单。 |
+
+复拍时，将 `demo/` 复制到不含个人信息的演示目录，使用独立的程序、配置和用户数据目录打开文件，展开“笔记”和“项目”目录。截图前清除路径提示与菜单外的悬浮提示，并移开鼠标；设置面板中的配置路径也应保持为无用户名的演示路径。使用物理像素捕获可见窗口边界，避免 Windows DPI 缩放导致裁切或文字模糊。
+
+本轮用 `tabs-menu.png` 替换旧版 `readme-details.png`；中英文 README 与项目介绍页共用这组六张截图。
